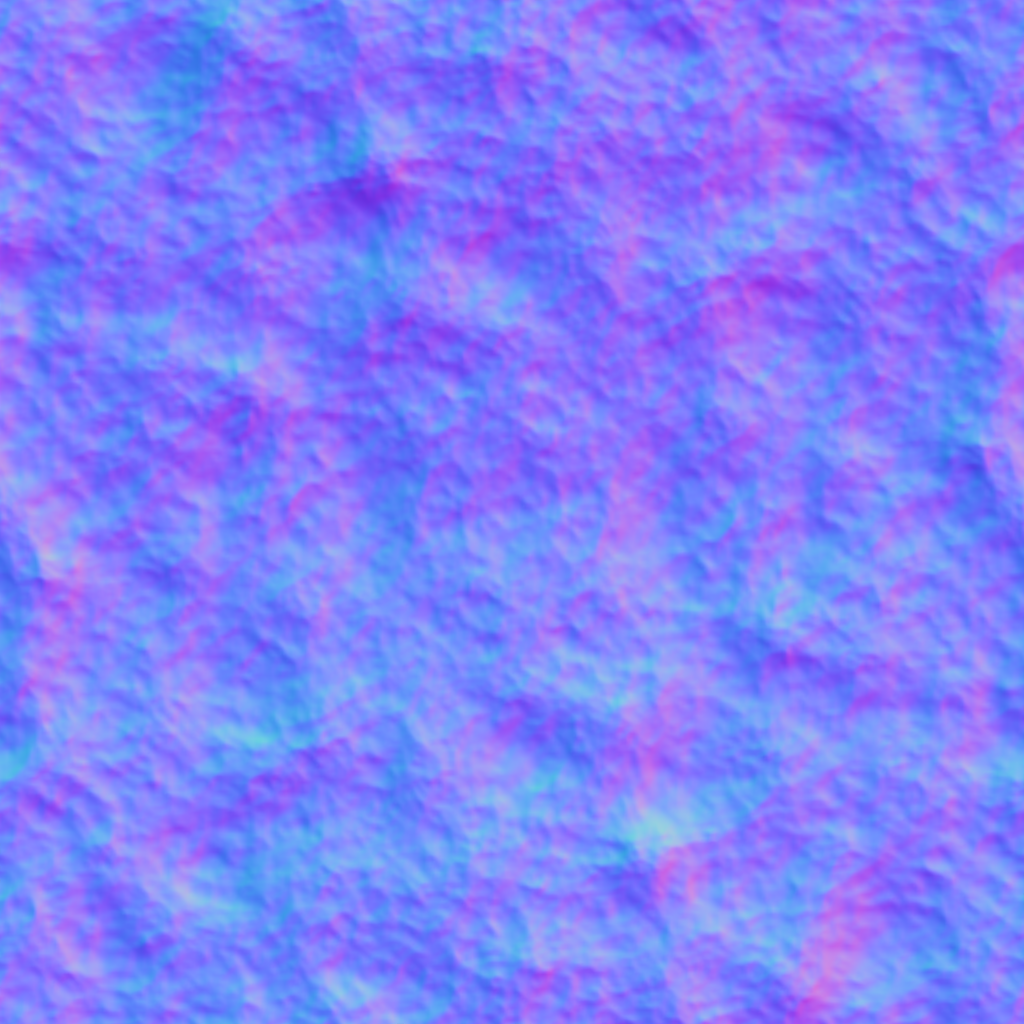
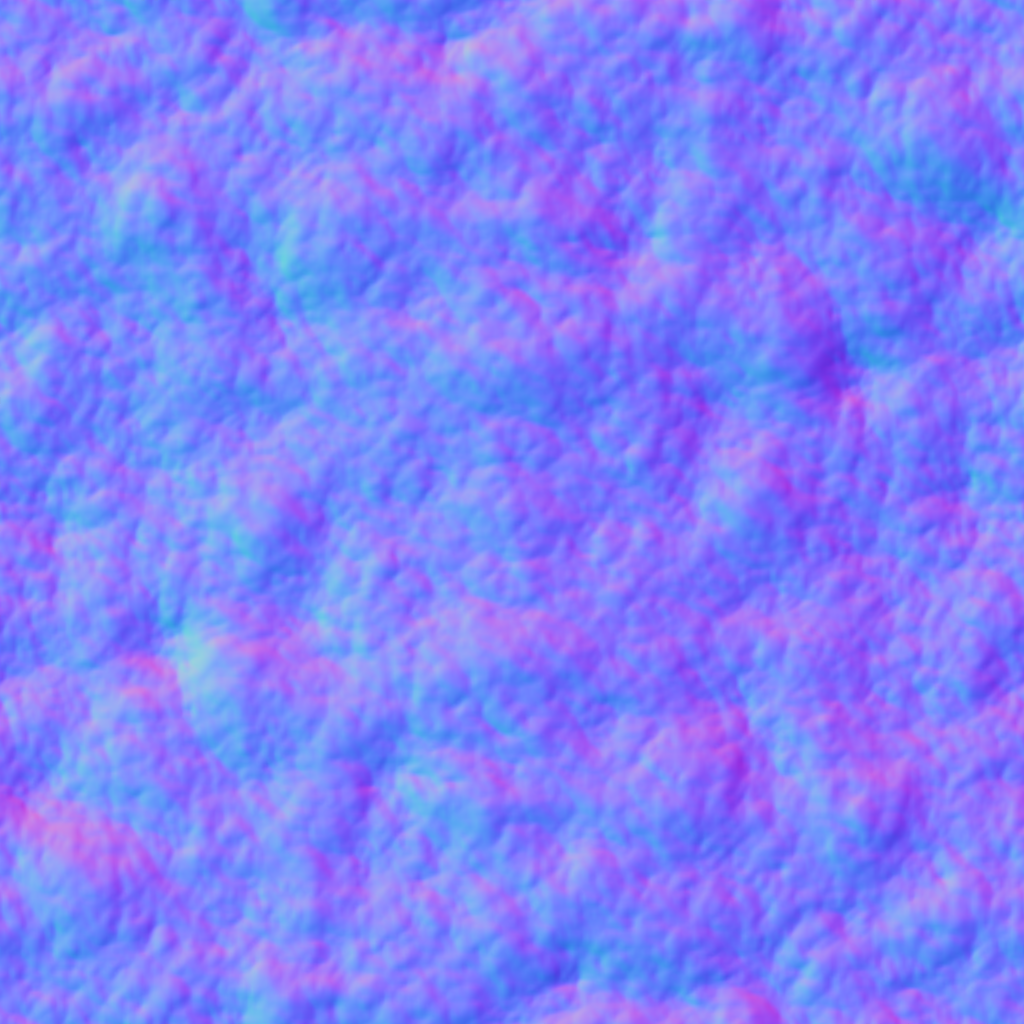
Water material tweaks

diff --git a/src/components/objects/Water.js b/src/components/objects/Water.js
@@ -16,7 +16,12 @@ class Train {
         this.params.freq = .5;
         this.params.directionVector = new THREE.Vector3(Math.cos(params.direction), 0, Math.sin(params.direction));
         this.depth = this.scene.params.chunk.seafloor.depth;
-        this.cumDepth = 0;
+        this.cumDepth = [];
+        this.gridSize = 5;
+        for (let z = 0; z < this.params.trainHeight; z += this.gridSize) {
+            this.cumDepth.push(new Array(Math.floor(this.params.trainWidth / this.gridSize)).fill(0));
+        }
+
         this.params.kappa = Math.PI * 2 / this.params.wavelength;
         const pds = new PoissonDiskSampling({
             shape: [this.params.trainWidth, this.params.trainHeight],
@@ -54,8 +59,10 @@ class Train {
         //     + this.params.directionVector.z * this.params.freq * z
         //     + this.params.phi * (this.time + this.timeOffset)
         //     - this.sceneParams.lambda * this.deltaT * y;
+        let depth = this.cumDepth[Math.floor((u + this.params.trainWidth / 2) / this.gridSize)][Math.floor((v + this.params.trainHeight / 2) / this.gridSize)];
         let arg = this.params.freq * u
             + this.params.phi * (this.time + this.timeOffset)
+            + (depth || 0)
             - this.sceneParams.lambda * this.deltaT * y;
         let mag = this.params.steepness * r * Math.cos(arg);
         let height = r * Math.sin(arg);
@@ -131,13 +138,18 @@ class Train {
     update(deltaT, WA) {
         this.deltaT = deltaT * this.scene.state.windSpeed;
         this.time += this.deltaT;
-        this.depth = this.params.fixed ? 100 : Perlin.lerp(0.5, this.depth, this.scene.chunks.getDepth(this.params.xCenter, this.params.zCenter));
-        // this.params.freq = Math.sqrt(this.sceneParams.g * this.params.kappa * Math.tanh(this.params.kappa * this.depth)) * (1 + this.scene.state.windSpeed / 20);        
+        // this.params.freq = Math.sqrt(this.sceneParams.g * tanh) * (1 + this.scene.state.windSpeed / 20);
+        this.params.freq = this.sceneParams.g / this.scene.state.windSpeed * Math.sqrt(2 / 3);
         this.params.speed = this.params.freq * this.params.wavelength / (2 * Math.PI);
         this.params.steepness = this.sceneParams.steepness / WA;
         this.params.phi = this.params.speed * 2 / this.params.wavelength;
         this.params.directionVector.set(Math.cos(this.params.direction), 0, Math.sin(this.params.direction));
-        // this.cumDepth += (this.kappa - this.kappaInf) * this.groupVelocity / 10;
+        for (let v = 0; v <= this.params.height / this.gridSize; v++) {
+            for (let u = 0; u <= this.params.width / this.gridSize; u++) {
+                let depth = this.params.fixed ? 100 : Perlin.lerp(0.5, this.depth, this.scene.chunks.getDepth(u * this.gridSize - this.params.width / 2 + this.params.xCenter, v * this.gridSize - this.params.height / 2 + this.params.zCenter));
+                this.cumDepth[v][u] += this.params.kappa * Math.tanh(this.params.kappa * depth) * this.params.speed * deltaT;
+            }
+        }
         // this.gamma = Perlin.lerp(0.5, this.gamma, this.scene.chunks.getSlope(this.xCenter, this.zCenter, this.directionVector));
         // let alpha = this.gamma * Math.exp(-this.params.kappa0 * this.depth);
         // this.cosAlpha = Math.cos(alpha);
@@ -169,10 +181,14 @@ class Water extends THREE.Group {
         this.prevHeading = this.scene.state.windHeading;
         this.geometry = new THREE.PlaneBufferGeometry(width, height, this.xSegs, this.zSegs);
         this.geometry.attributes.position.usage = THREE.DynamicDrawUsage;
+        this.geometry.attributes.uv2 = this.geometry.attributes.uv;
         const loader = new THREE.TextureLoader();
         const bumpTexture = loader.load(TEXTURE);
         bumpTexture.repeat = new THREE.Vector2(16, 16);
         bumpTexture.wrapS = bumpTexture.wrapT = THREE.RepeatWrapping;
+        const aoTexture = loader.load(TEXTURE);
+        aoTexture.repeat = new THREE.Vector2(16, 16);
+        aoTexture.wrapS = aoTexture.wrapT = THREE.RepeatWrapping;
 
         const envMap = loader.load(ENVMAP);
         this.material = new THREE.MeshPhysicalMaterial({
@@ -181,10 +197,11 @@ class Water extends THREE.Group {
             transmission: .4,
             ior: .1,
             reflectivity: .7,
+            roughness: 0.5,
             opacity: 1,
             color: 0x0010ff,
             side: THREE.FrontSide,
-            envMap: envMap,
+            envMap: envMap,            
             bumpMap: bumpTexture,
             transparent: true
         });
@@ -269,6 +286,8 @@ class Water extends THREE.Group {
     }
 
     update(deltaT) {
+        // this.mesh.material.alphaTest = this.scene.params.wave.alphaTest;
+        // this.mesh.material.needsUpdate = true;
         this.time += deltaT;
 
         if (this.trains.length != this.params.numTrains) {

diff --git a/src/components/objects/Boundary.js b/src/components/objects/Boundary.js
@@ -1,4 +1,4 @@
-import { Group, PlaneGeometry, Mesh, LuminanceFormat, FrontSide, TextureLoader, DataTexture, NearestFilter, MeshPhysicalMaterial } from 'three';
+import { Group, PlaneGeometry, Mesh, LuminanceFormat, FrontSide, TextureLoader, RepeatWrapping, MeshPhysicalMaterial } from 'three';
 import TEXTURE from './res/water_normals.png';
 import ENVMAP from './res/ToonEquirectangular.png';
 class Boundary extends Group {
@@ -9,25 +9,24 @@ class Boundary extends Group {
         this.scene = scene;
 
         const longGeo = new PlaneGeometry(targetSize, (targetSize - height) / 2);
+        const shortGeo = new PlaneGeometry((targetSize - width) / 2, height);
         const loader = new TextureLoader();
         const bumpTexture = loader.load(TEXTURE);
-        const colors = new Uint8Array(5);
-        for (let c = 0; c <= colors.length; c++) {
-            colors[c] = (c / colors.length) * 256;
-        }
+        bumpTexture.repeat.set(16 / width * (targetSize - width) / 2, 16);
+        bumpTexture.wrapS = bumpTexture.wrapT = RepeatWrapping;
 
-        const gradientMap = new DataTexture(colors, colors.length, 1, LuminanceFormat);
-        gradientMap.minFilter = NearestFilter;
-        gradientMap.magFilter = NearestFilter;
-        gradientMap.generateMipmaps = false;
+        const bumpTextureRotated = loader.load(TEXTURE);
+        bumpTextureRotated.repeat.set(16 / width * targetSize, 16 / height * (targetSize - height) / 2);
+        bumpTextureRotated.wrapS = bumpTextureRotated.wrapT = RepeatWrapping;
         // const boundaryMaterial = new MeshToonMaterial({ color: 0x0010ff, side: FrontSide, bumpMap: bumpTexture, gradientMap: gradientMap });
         const envMap = loader.load(ENVMAP);
-        const boundaryMaterial = new MeshPhysicalMaterial({
+        const shortMaterial = new MeshPhysicalMaterial({
             clearcoat: 1,
             clearcoatRoughness: 0.1,
             transmission: .4,
             ior: .1,
             reflectivity: .7,
+            roughness: 0.5,
             opacity: 1,
             color: 0x0010ff,
             side: FrontSide,
@@ -35,12 +34,25 @@ class Boundary extends Group {
             bumpMap: bumpTexture,
             transparent: true
         });
-        const shortGeo = new PlaneGeometry((targetSize - width) / 2, height);
+        const longMaterial = new MeshPhysicalMaterial({
+            clearcoat: 1,
+            clearcoatRoughness: 0.1,
+            transmission: .4,
+            ior: .1,
+            reflectivity: .7,
+            roughness: 0.5,
+            opacity: 1,
+            color: 0x0010ff,
+            side: FrontSide,
+            envMap: envMap,
+            bumpMap: bumpTextureRotated,
+            transparent: true
+        });
 
-        const long1 = new Mesh(longGeo, boundaryMaterial);
-        const long2 = new Mesh(longGeo, boundaryMaterial);
-        const short1 = new Mesh(shortGeo, boundaryMaterial);
-        const short2 = new Mesh(shortGeo, boundaryMaterial);
+        const long1 = new Mesh(longGeo, longMaterial);
+        const long2 = new Mesh(longGeo, longMaterial);
+        const short1 = new Mesh(shortGeo, shortMaterial);
+        const short2 = new Mesh(shortGeo, shortMaterial);
         long1.receiveShadow = true;
         long2.receiveShadow = true;
         short1.receiveShadow = true;

diff --git a/src/components/scenes/OceanScene.js b/src/components/scenes/OceanScene.js
@@ -57,6 +57,7 @@ class OceanScene extends THREE.Scene {
                 steepness: 0.5,
                 numTrains: 1,
                 lambda: 1,
+                alphaTest: 0.5
             },
             chunk: {
                 seafloor: {
@@ -139,6 +140,7 @@ class OceanScene extends THREE.Scene {
         wave.add(this.params.wave, 'maxSize', 0, 100);
         wave.add(this.params.wave, 'numTrains', 0, 5, 1);
         wave.add(this.params.wave, 'lambda', 0, 2);
+        wave.add(this.params.wave, 'alphaTest', 0, 1);
 
         let lighting = this.state.gui.addFolder('Lighting');
         let updateLighting = () => this.sun.update();
